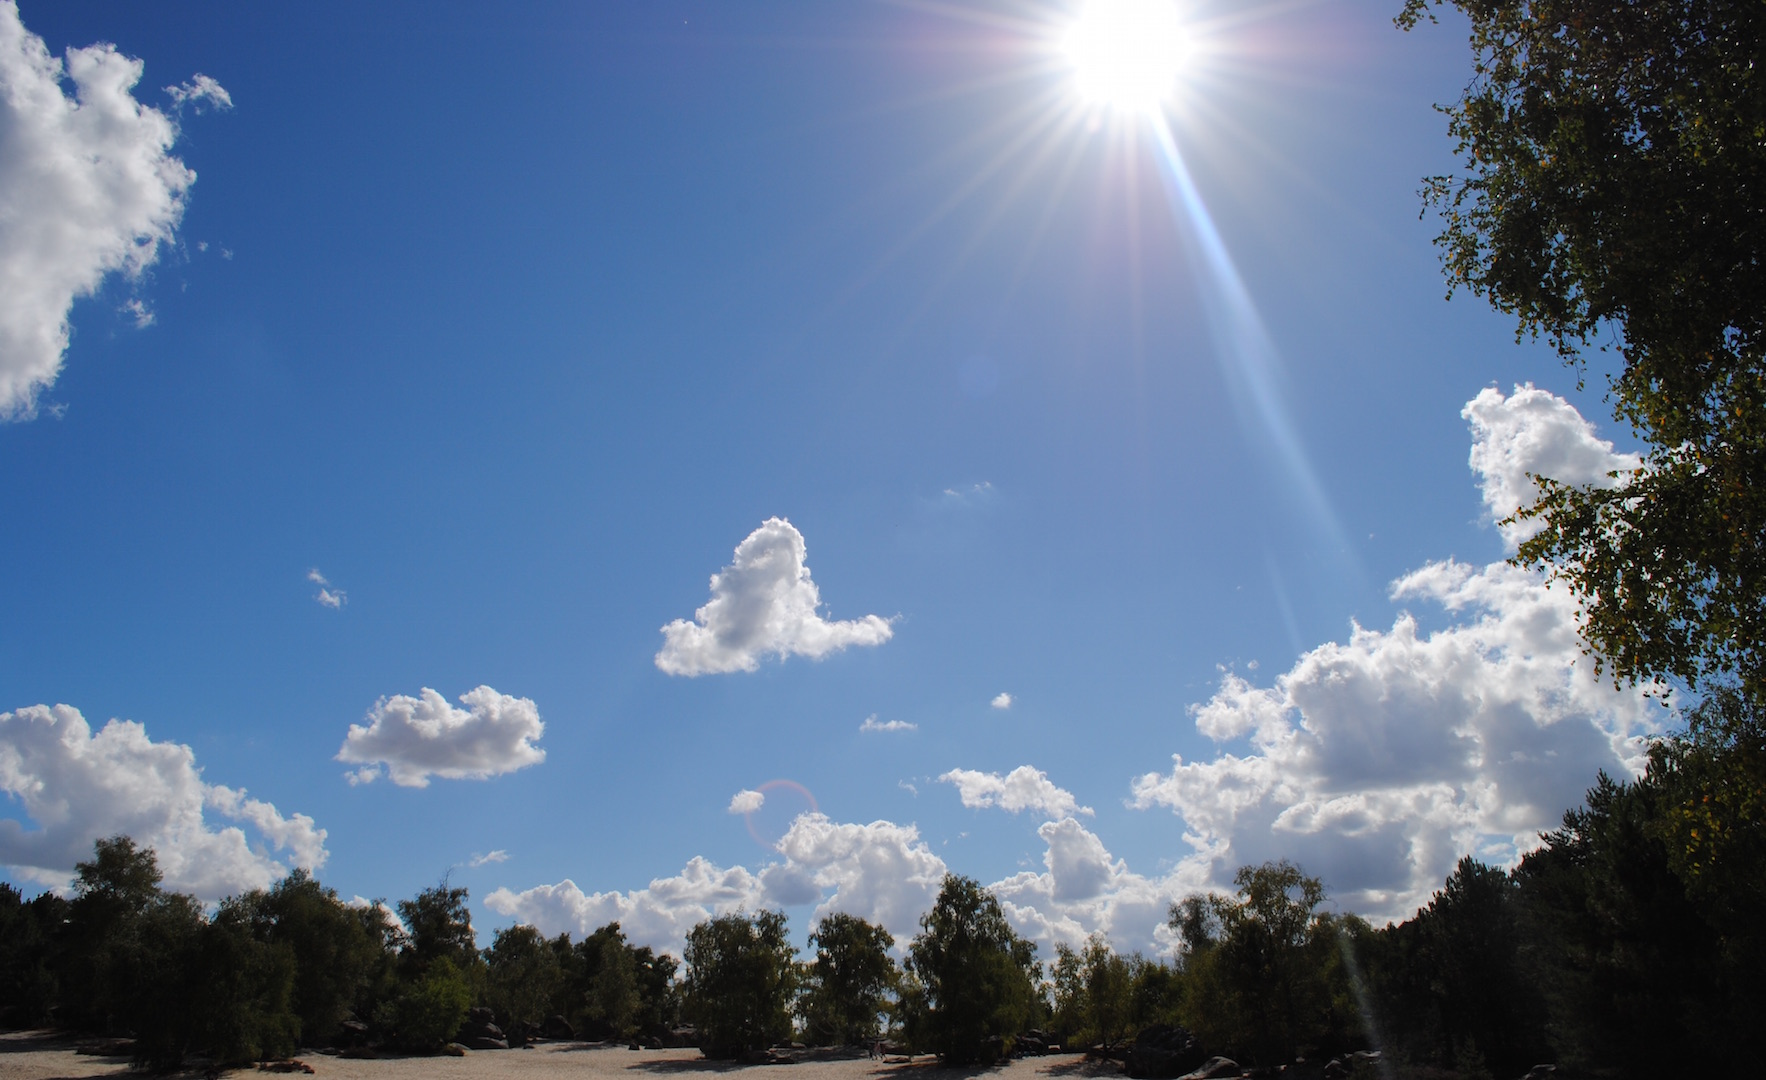
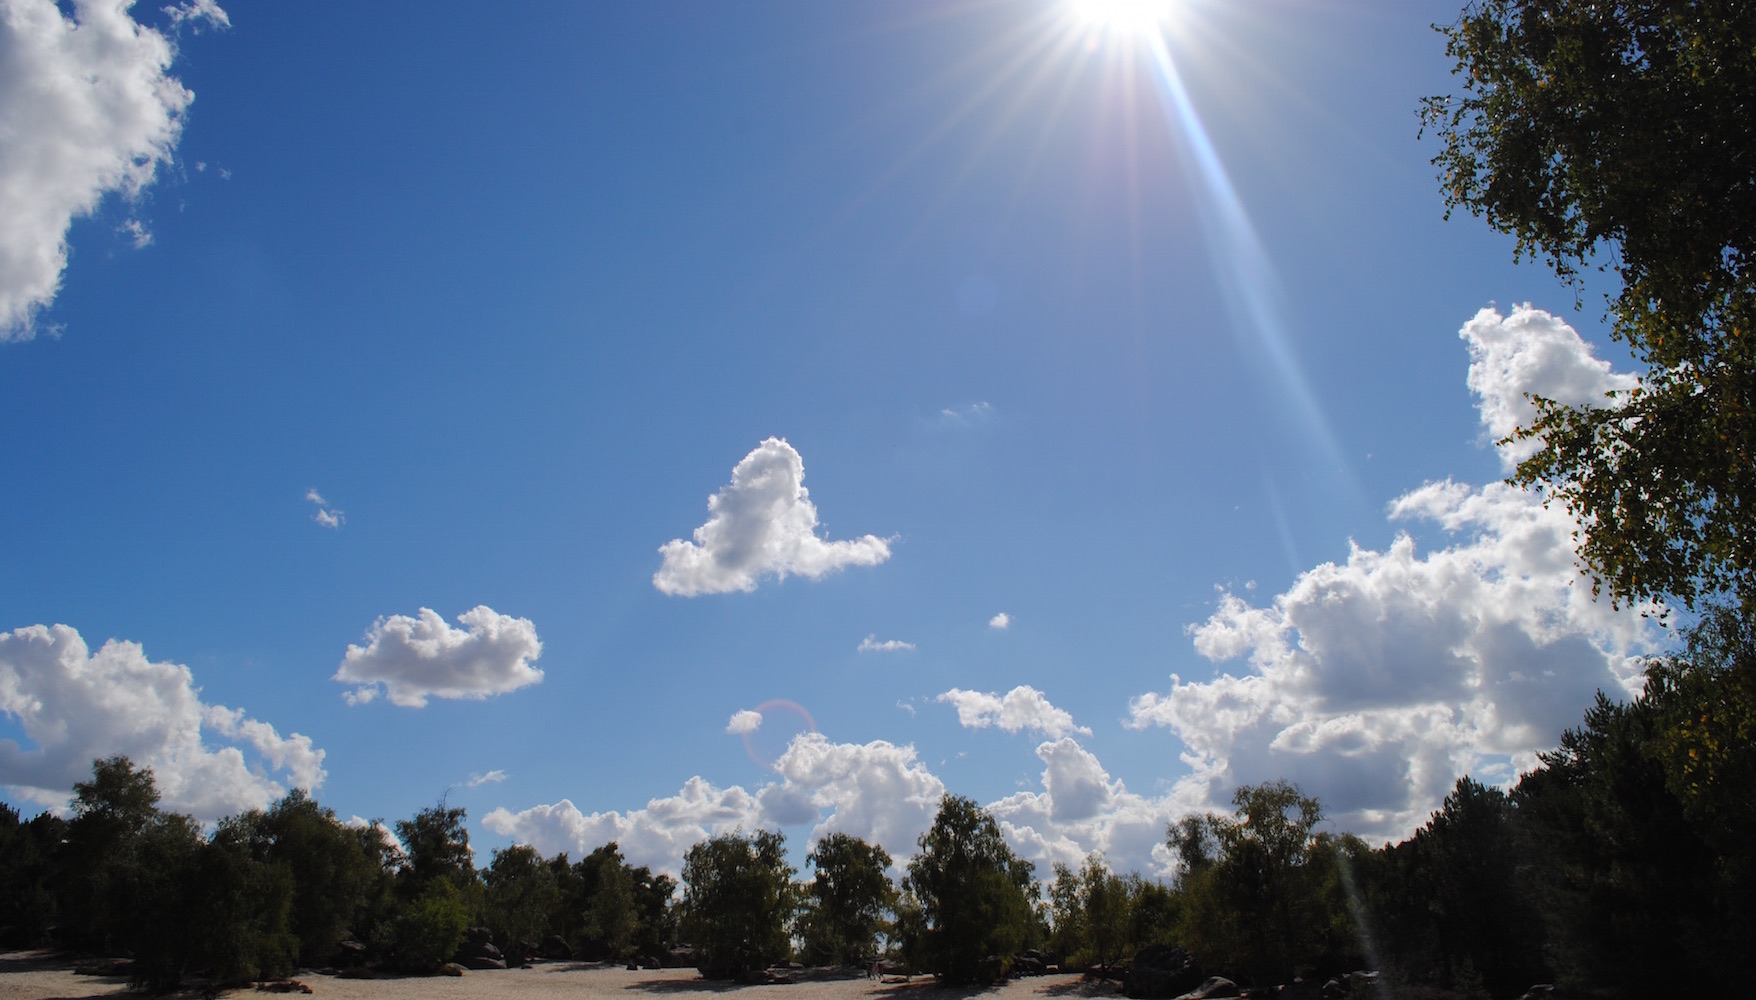
background works and scales nicely using developer tools in chrome and firefox

diff --git a/css/styles.css b/css/styles.css
@@ -10,14 +10,11 @@
 }
 
 .jumbotron {
-    background-image: url("../img/fontainebleu.jpg");
-    /*background-size: cover;*/
+    background: #282828 url("../img/fontainebleu.jpg") no-repeat center center;
+    background-size: cover;
+    height: 1000px;
+    color: #ffffff;
     background-attachment: fixed;
-    min-height: 800px;
-    -webkit-background-size: 100% 100%;
-    -moz-background-size: 100% 100%;
-    -o-background-size: 100% 100%;
-    background-size: 100% 100%;
 }
 
 .me {
